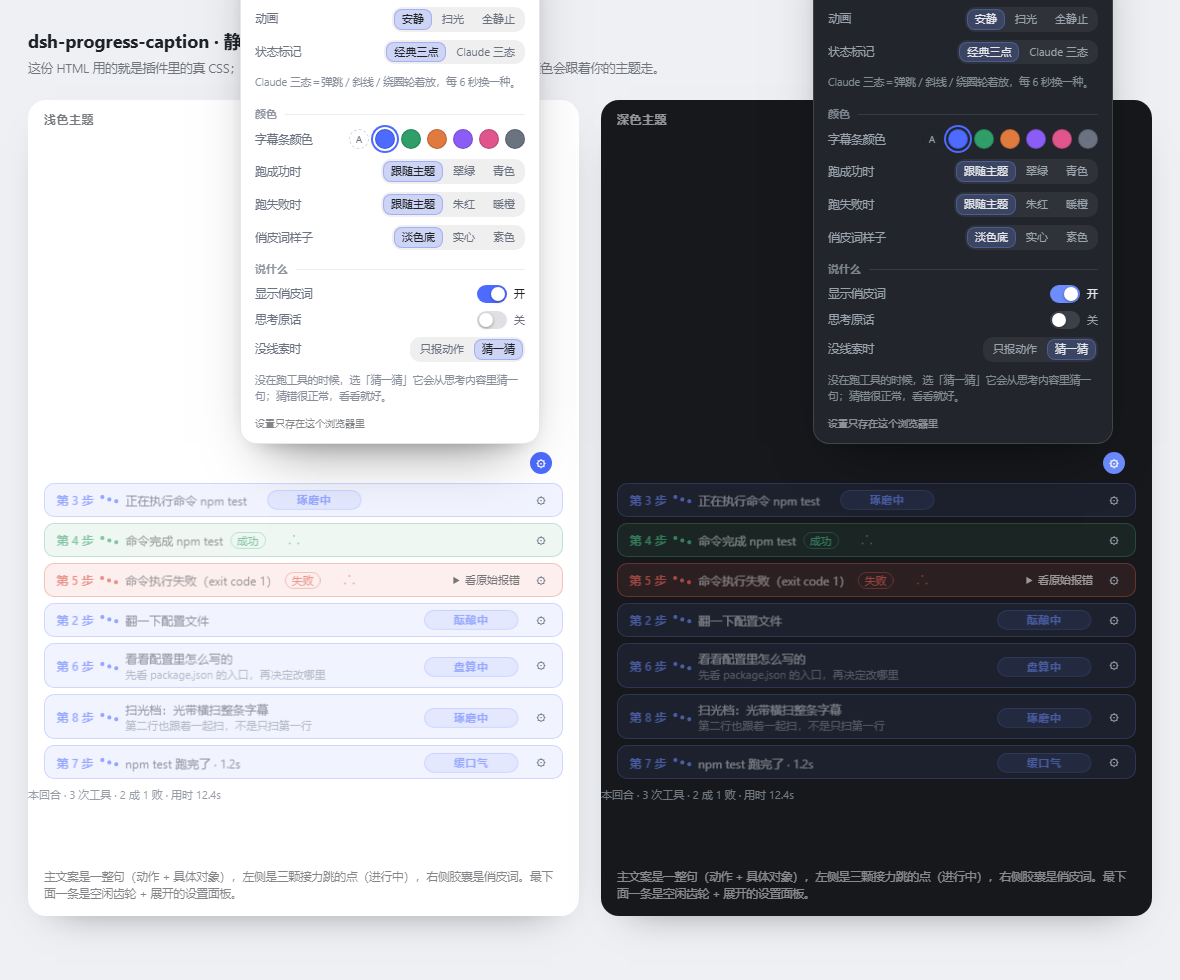
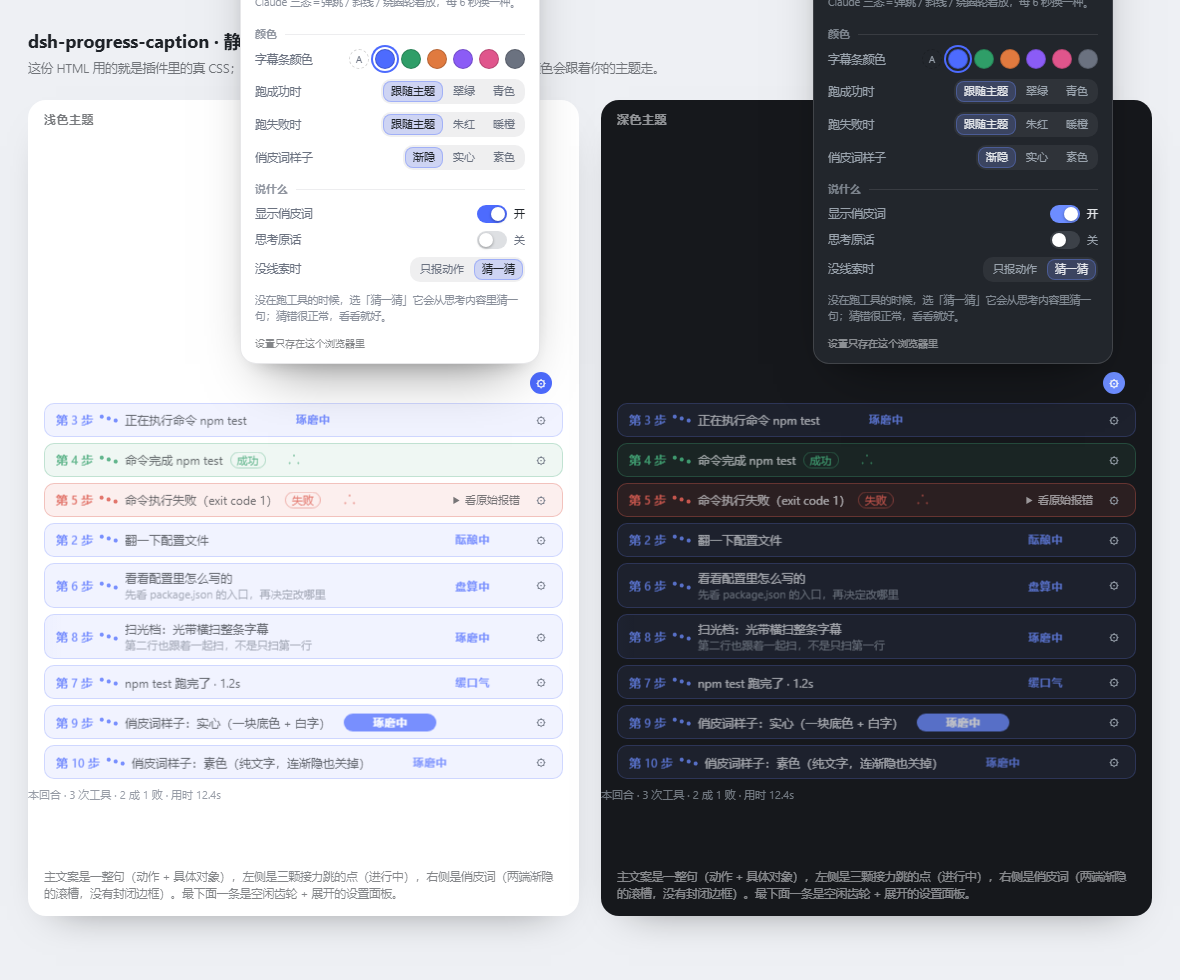
fix: 字幕条不再跳高、俏皮词去掉封闭圆角框；打包截图与回归
两处观感问题：

1) 「思考原话」副行出现/消失时整条框突兀跳高又突然缩回。
   - 根因两头：一是副行只挂在 thinking 分支上，工具一跑（state 翻 running）
     就被摘掉、跑完又挂回来，一轮能来回好几次；二是直接挂/摘 .pgc-sub 让
     内容高度一帧内多 13px / 少 13px，而 .pgc-band 那条 max-height 过渡恒为
     7em，从来没生效过。
   - 修法：deriveCaption 顶部统一算一次 blocks/sub，running / writing /
     thinking 三个「整轮还没结束」的分支都带同一句；组件里按 turn 记账的
     subRef 让整轮进行中原话常驻。
   - 渲染包一层常驻的 .pgc-sub-wrap 当「高度闸门」：max-height 0 → 1.6em
     配 .18s 过渡，透明度 .14s 一起淡入淡出，不再一帧跳变。

2) 俏皮词右侧那颗封闭圆角小胶囊看着像按钮。
   - 默认档（tint）去掉底色、描边、999px 圆角，改为两端各 14% 渐变到透明的
     mask 滚槽，词从雾里滚进滚出；成功/失败只换字色，不再补一圈颜色。
   - 实心档保留一块实底 + 白字并关掉 mask（否则胶囊两头被啃透明）；素色档
     纯文字，连渐隐也关掉。三档一眼分得开，老存档仍有效。
   - 设置面板文案 淡色底 → 渐隐（en: Tinted → Faded）。

没动的：换词履带 .pgc-flavor-track、@keyframes pgc-flavor-roll、.42s 动画、
2.8s 词频周期、.pgc-band 的裁剪与 padding/margin 全部原样。

验证：render 78/78、package 9/9；变异检查三条（删副行 max-height 过渡、
把 border 加回 .pgc-flavor、running 分支不带 sub）各自只让对应那条断言变红，
改回后字节还原、全绿；headless Edge 实测副行开合是连续插值（收起 28.80 →
29.44 → 31.16 → 36.42 → 45.36px），tint 档 border 0px / bg 透明 / radius 0px。

diff --git a/client.js b/client.js
@@ -357,7 +357,7 @@ window.__ModuleLoader__.load({
         colorBad: '跑失败时',
         colorFlavor: '俏皮词样子',
         toneTheme: '跟随主题',
-        toneTint: '淡色底',
+        toneTint: '渐隐',
         toneSolid: '实心',
         tonePlain: '素色',
         swOcean: '海蓝',
@@ -493,7 +493,7 @@ window.__ModuleLoader__.load({
         colorBad: 'When it fails',
         colorFlavor: 'Fun word look',
         toneTheme: 'Theme',
-        toneTint: 'Tinted',
+        toneTint: 'Faded',
         toneSolid: 'Solid',
         tonePlain: 'Plain',
         swOcean: 'Ocean',
@@ -1193,6 +1193,12 @@ window.__ModuleLoader__.load({
       // 宿主发出来的 step 本来就是 1 起（用真实会话日志核过：第一个 step 就是 1），
       // 这里绝对不能再 +1，否则「第 1 步」会被显示成「第 2 步」。
       const step = partial && typeof partial.step === 'number' ? partial.step : null;
+      const blocks = partial && Array.isArray(partial.blocks) ? partial.blocks : EMPTY;
+      // 副行是「整轮都在」的东西，不是只有 thinking 那一瞬间才有。
+      // 以前只有 thinking 分支带 sub：工具一起来（state 变 running）这行就被摘掉，
+      // 工具跑完回到 thinking 又挂回来——一轮里能来回好几次，整条框跟着一跳一跳。
+      // 现在每个「这一轮还没结束」的分支都带上同一句思考原话，状态怎么翻都不动它。
+      const sub = pickThought(lastReasoningText(blocks));
 
       // 1) 有工具在跑。
       if (calls.length > 0) {
@@ -1209,13 +1215,14 @@ window.__ModuleLoader__.load({
           target: toolTarget(call),
           ruleId: null,
           phase: null,
+          // 工具在跑，但这一轮还没结束：副行照旧挂着，不因为 state 从 thinking 翻成 running 就消失。
+          sub,
           kind: null,
           code: null,
           rawLine: '',
         };
       }
 
-      const blocks = partial && Array.isArray(partial.blocks) ? partial.blocks : EMPTY;
       const tail = blocks.length > 0 ? blocks[blocks.length - 1] : null;
       const tailKind = tail ? tail.kind : null;
 
@@ -1231,6 +1238,7 @@ window.__ModuleLoader__.load({
           target: '',
           ruleId: null,
           phase: null,
+          sub,
           kind: null,
           code: null,
           rawLine: '',
@@ -1293,7 +1301,7 @@ window.__ModuleLoader__.load({
         target: '',
         ruleId: rule ? rule.id : null,
         // 副行：从这段思考里挑一句最有信息量的（不是第一句——第一句几乎都是过场话）。
-        sub: pickThought(lastReasoningText(blocks)),
+        sub,
         phase: !rule && phase ? phase.text : null,
         kind: null,
         code: null,
@@ -1546,6 +1554,21 @@ window.__ModuleLoader__.load({
       if (shown) paintedRef.current = shown;
       const painted = showFull ? shown : paintedRef.current;
 
+      // 副行（「思考原话」）整轮常驻：以前它只跟着 thinking 这一种 state 走，
+      // 工具一跑（state 翻成 running）就被摘掉，工具跑完回到 thinking 又挂回来——
+      // 一轮里能来回好几次，每次整条框都跟着长高 / 缩回 13px。
+      // 现在记住这一轮最后一句非空的思考原话，中间状态怎么翻都继续显示；
+      // 只有换到新的一轮才清空（收成齿轮时由 showFull 一并收掉）。
+      const subRef = React.useRef({ turn: null, text: '' });
+      const paintedTurn = painted && typeof painted.turn === 'number' ? painted.turn : null;
+      if (paintedTurn !== null && subRef.current.turn !== paintedTurn) {
+        subRef.current = { turn: paintedTurn, text: '' };
+      }
+      if (painted && painted.sub) subRef.current.text = painted.sub;
+      const subText = showFull && settings.subLine
+        ? (painted && painted.sub ? painted.sub : subRef.current.text)
+        : '';
+
       // Claude 三态：每 SHAPE_MS 换一种（弹跳 → 斜线 → 绕圈 → 回到弹跳）。
       // 只在「选了 Claude 三态 + 动画没关 + 确实有内容」时才计时：
       // 收成齿轮或选了全静止档就没有人在看，让计时器空转只是白耗电。
@@ -1757,10 +1780,13 @@ window.__ModuleLoader__.load({
               // 稳定过（最快 520ms / 快思考 800ms 才换一次），比 160ms 的动画长，不会连成闪烁。
               h('span', { className: 'pgc-text' },
                 h('span', { className: 'pgc-label', key: label }, label),
-                // 「思考原话」开关打开后，才多给一行模型自己的思考首句当副行。
-                settings.subLine && painted.state === 'thinking' && painted.sub
-                  ? h('span', { className: 'pgc-sub' }, painted.sub)
-                  : null),
+                // 「思考原话」那一行。外面这层 .pgc-sub-wrap 是「高度闸门」：
+                // 副行有没有内容都常驻，靠 max-height 0 → 1.6em 过渡来开关。
+                // 以前是直接挂/摘 .pgc-sub，盒子高度会在一帧里多出 13px，
+                // 整条框就突兀地跳高、又突然缩回（.pgc-band 那条 max-height 过渡一次也没生效过，
+                // 因为它的 max-height 恒为 7em，真正变的是里面的内容高度）。
+                h('span', { className: 'pgc-sub-wrap' + (subText ? ' pgc-sub-wrap--on' : '') },
+                  h('span', { className: 'pgc-sub' }, subText))),
               // 俏皮词在场时，不再重复挂「进行中」——两个都在就互相挤，主文案被压成两三个字。
               // 进行中由左侧小圆点表达；「成功 / 失败」是结论，任何时候都留着。
               status && (!suffix || painted.state === 'ok' || painted.state === 'error')
@@ -2054,7 +2080,15 @@ window.__ModuleLoader__.load({
    不再按「行数 2/3」加 line-clamp——主文案是拼出来的整句（十几个字），
    开 2/3 行几乎不会真的折行，视觉上没差别，所以那个设置项已经删了。 */
 .pgc-text { display: flex; flex-direction: column; justify-content: center; flex: 1 1 auto; min-width: 0; }
-.pgc-sub { flex: 0 0 auto; min-width: 0; overflow: hidden; text-overflow: ellipsis; white-space: nowrap; font-size: .92em; line-height: 1.5; color: var(--dsw-alias-label-secondary, inherit); opacity: .78; }
+/* 副行的「高度闸门」。这层壳常驻在树上，展开/收起只改 max-height 与 opacity，
+   所以副行出现、消失都不会在一帧里把盒子的内容高度顶高 / 抽走（那正是「整条框突然
+   跳高又突然缩回」的来源）。壳自己不占位：收起时 max-height: 0 + overflow: hidden。 */
+.pgc-sub-wrap { flex: 0 0 auto; min-width: 0; max-height: 0; opacity: 0; overflow: hidden;
+  transition: max-height .18s cubic-bezier(.23, 1, .32, 1), opacity .14s ease; }
+.pgc-sub-wrap--on { max-height: 1.6em; opacity: .78; }
+/* 副行本体：display: block 是必须的 —— 它现在被包在 .pgc-sub-wrap 里，不再是
+   .pgc-text 的直接 flex 子项，若还是 inline 就吃不到 overflow/text-overflow 的省略号。 */
+.pgc-sub { display: block; flex: 0 0 auto; min-width: 0; overflow: hidden; text-overflow: ellipsis; white-space: nowrap; font-size: .92em; line-height: 1.5; color: var(--dsw-alias-label-secondary, inherit); }
 .pgc-label { position: relative; flex: 0 0 auto; min-width: 0; overflow: hidden; display: -webkit-box; -webkit-box-orient: vertical; -webkit-line-clamp: 1; overflow-wrap: anywhere; }
 /* 文案换了才重播的淡入上浮：只动 opacity + translateY（合成层），不改宽高、不重排。
    160ms 是「看得见但来不及拖沓」的量级；换文案的间隔由 holdMs 兜住，不会连成闪烁。
@@ -2114,8 +2148,15 @@ window.__ModuleLoader__.load({
 /* 俏皮词：不用斜体（中文被强行倾斜很难看），固定占最右一格。
    宽度写死 6.6em：词最短 3 字最长 5 字，写死之后换词时右边这块纹丝不动，
    左边的状态文字就不会被一会儿推左一会儿推右（这也是「闪」的一个来源）。
-   换词时外壳（底色 / 圆角 / 宽度）一律不动，只有里面两行字在滚：
-   这个框就是那条「滚槽」，overflow: hidden 把滚出去的那半句裁掉。 */
+   换词时外壳（宽度 / 高度 / 位置）一律不动，只有里面两行字在滚：
+   这个框就是那条「滚槽」，overflow: hidden 把滚出去的那半句裁掉。
+
+   默认这一档不再画「一圈」：没有底色、没有描边、没有圆角矩形。
+   一圈封闭的框把词关在里面，怎么看都像个按钮，而且小字 + 细描边在深色主题下
+   容易糊成一条灰边。改成两端渐隐的滚槽之后，词是从左右两团雾里滚进滚出的，
+   边界不再是一条硬线，「滚」这件事才读得出来。
+   渐隐只能用 mask：想拿 ::before/::after 盖一层背景色做假渐隐，在无底色的
+   滚槽上会把背后的整条胶囊一起盖住，所以这里必须是真·透明遮罩。 */
 .pgc-flavor {
   flex: 0 0 auto; width: 6.6em; max-width: 46%; margin-left: 6px;
   position: relative; display: inline-flex; align-items: center; justify-content: center;
@@ -2123,10 +2164,11 @@ window.__ModuleLoader__.load({
   overflow: hidden; text-overflow: ellipsis; white-space: nowrap; text-align: center;
   font-style: normal; font-weight: 600; font-size: .95em; line-height: 1.6; letter-spacing: .2px;
   color: var(--pgc-accent);
-  background: color-mix(in srgb, var(--pgc-accent) 15%, transparent);
-  border: 1px solid color-mix(in srgb, var(--pgc-accent) 30%, transparent);
-  border-radius: 999px; padding: 0 9px;
-  transition: color .18s ease, background-color .18s ease, border-color .18s ease;
+  padding: 0 9px;
+  /* 两端渐隐：左右各 14% 渐变到全透明，词从雾里滚进、再滚回雾里。 */
+  -webkit-mask-image: linear-gradient(90deg, transparent 0, #000 14%, #000 86%, transparent 100%);
+  mask-image: linear-gradient(90deg, transparent 0, #000 14%, #000 86%, transparent 100%);
+  transition: color .18s ease, background-color .18s ease;
 }
 /* 滚槽里的滚动体：上一句在上、新的一句在下，两行竖直叠着，整体往上滚半格。
    滚动体的高度是滚槽的两倍，所以「滚半格」正好等于「滚一行」——
@@ -2146,25 +2188,28 @@ window.__ModuleLoader__.load({
 }
 /* 刚出现（还没有「上一句」）时不要滚：条本身已经在播入场动画，再滚一次就显得吵。 */
 .pgc-flavor-still { animation: none; }
-/* 俏皮词三种样式：淡色底（默认）/ 实心 / 素色（不要底色，只留字）。 */
-/* 换词动画挂在滚动体上（.pgc-flavor-track 自带 animation），外壳不再挂，
+/* 俏皮词三种样式，三档必须一眼分得开：
+   - tint（默认，无后缀同名规则）：两端渐隐的滚槽，没有底色也没有描边；
+   - solid：想要「一块底」的选它，实心胶囊 + 白字，渐变遮罩必须关掉，
+     否则胶囊两头会被啃成透明，就不是胶囊了；
+   - plain：纯文字，连渐隐也关掉，词走到边上直接顶格。
+   换词动画挂在滚动体上（.pgc-flavor-track 自带 animation），外壳不再挂，
    所以原来「每个词都连胶囊一起重挂载」的闪烁没有了。全静止档由后面的规则统一关掉。 */
-.pgc-flavor-solid .pgc-flavor { color: #fff; background: var(--pgc-accent); border-color: transparent; }
-.pgc-flavor-plain .pgc-flavor { color: var(--pgc-accent); background: transparent; border-color: transparent; opacity: .92; }
-.pgc-strip--ok .pgc-flavor {
-  color: var(--pgc-ok);
-  background: color-mix(in srgb, var(--pgc-ok) 15%, transparent);
-  border-color: color-mix(in srgb, var(--pgc-ok) 30%, transparent);
+.pgc-flavor-solid .pgc-flavor {
+  color: #fff; background: var(--pgc-accent);
+  border-radius: 999px;
+  -webkit-mask-image: none; mask-image: none;
 }
-.pgc-strip--error .pgc-flavor {
-  color: var(--pgc-bad);
-  background: color-mix(in srgb, var(--pgc-bad) 15%, transparent);
-  border-color: color-mix(in srgb, var(--pgc-bad) 30%, transparent);
+.pgc-flavor-plain .pgc-flavor {
+  color: var(--pgc-accent); background: transparent; opacity: .92;
+  -webkit-mask-image: none; mask-image: none;
 }
-.pgc-flavor-solid.pgc-strip--ok .pgc-flavor { color: #fff; background: var(--pgc-ok); border-color: transparent; }
-.pgc-flavor-solid.pgc-strip--error .pgc-flavor { color: #fff; background: var(--pgc-bad); border-color: transparent; }
-.pgc-flavor-plain.pgc-strip--ok .pgc-flavor { background: transparent; border-color: transparent; }
-.pgc-flavor-plain.pgc-strip--error .pgc-flavor { background: transparent; border-color: transparent; }
+/* 成功 / 失败：默认档只换字色，不铺底色、不描边——框都没了，再补一圈颜色就白改了。 */
+.pgc-strip--ok .pgc-flavor { color: var(--pgc-ok); }
+.pgc-strip--error .pgc-flavor { color: var(--pgc-bad); }
+/* 实心档在成功 / 失败时连胶囊底色一起换，白字保持不变。 */
+.pgc-flavor-solid.pgc-strip--ok .pgc-flavor { color: #fff; background: var(--pgc-ok); }
+.pgc-flavor-solid.pgc-strip--error .pgc-flavor { color: #fff; background: var(--pgc-bad); }
 .pgc-chip { flex: 0 0 auto; padding: 0 6px; border: 1px solid color-mix(in srgb, var(--pgc-accent) 38%, transparent); border-radius: 999px; font-size: 11px; color: var(--pgc-accent); }
 .pgc-strip--ok .pgc-chip { color: var(--pgc-ok); border-color: color-mix(in srgb, var(--pgc-ok) 48%, transparent); }
 .pgc-strip--error .pgc-chip { color: var(--pgc-bad); border-color: color-mix(in srgb, var(--pgc-bad) 52%, transparent); }
@@ -2327,6 +2372,10 @@ window.__ModuleLoader__.load({
   /* 系统开了「减少动态效果」时，也不再做位移和缩放，只留颜色的硬切换。 */
   .pgc-band { max-height: 7em; opacity: 1; }
   .pgc-strip--handle .pgc-band { max-height: 0; opacity: 0; margin-block: 0; padding-block: 0; }
+  /* 副行的开合直接到位：上面已经把 transition 全关了，这里把两端状态写死，
+     免得将来有人只改动默认值、忘了降级分支。 */
+  .pgc-sub-wrap { max-height: 0; opacity: 0; }
+  .pgc-sub-wrap--on { max-height: 1.6em; opacity: .78; }
   /* 不转的时候，点靠 keyframes 才亮起来，这里要补回可见度，否则整个标记会消失。 */
   .pgc-arc > span { opacity: .6 !important; }
   /* 同理：三点停住后要回到「看得见」的静止形（靠 keyframes 才有位移，一撤就全落回原位）。 */

diff --git a/README.md b/README.md
@@ -225,13 +225,21 @@ v4.1-flash 这类模型思考极快，字是一串串来的。如果字幕逐字
   一次出现只播一次；根节点故意不挂 `animation`——那会被任何一次重渲染重播，就是你看到的「闪」。
 - **换文案**用 `pgc-swap`（`.16s`）：起点是 `opacity: .45` 而不是 `0`。
   从 0 开始的话，每隔几百毫秒就有一次「字消失再浮现」，观感就是断；从 .45 起跳才是「换了一句话」。
-- **换俏皮词**不走 `pgc-swap`，走履带（`pgc-flavor-roll`，`.42s`）。胶囊是固定高度的裁切框，
+- **换俏皮词**不走 `pgc-swap`，走履带（`pgc-flavor-roll`，`.42s`）。滚槽是固定高度的裁切框，
   里面塞一条「两行高」的滚动体：上面一行是上一句、下面一行是新的一句，整体往上滚半格就换好了。
   关键是**两行只有一个滚动体、只有一条动画**——如果给两行各挂一条动画，两行各走各的，中途会同时
   停在框里叠成一坨（18px 高的框放不下两行字）；整条一起滚，两行之间的距离永远正好一格，
   任何一帧都不会叠。缓动 `cubic-bezier(.25,.46,.45,.94)`：起步就走、后段慢慢落位，
   不是匀速平移（匀速看着像机器在报站）。滚动体默认停在「下面那行」，所以动画被关掉时
   直接切到新词，不会停在上一句上；刚出现（还没有「上一句」）那一帧不滚，只淡入。
+- **默认档的俏皮词不画「一圈」**。早期是淡底 + 1px 描边 + `border-radius: 999px` 的小胶囊，
+  实际看着像个按钮：词被一圈硬边锁死，深色主题下细描边还容易糊成灰边。现在默认（`tint`）
+  没有底色、没有描边、没有圆角矩形，只在滚槽上挂一条
+  `mask-image: linear-gradient(90deg, transparent 0, #000 14%, #000 86%, transparent 100%)`，
+  词是从左右两团雾里滚进滚出的，边界不再是一条硬线，「在滚」这件事才读得出来。
+  渐隐只能用真 `mask`：想拿 `::before/::after` 盖一层背景色做假渐隐，在无底色的滚槽上会把
+  背后整条胶囊一起盖住。另两档仍保留`实心`（一块底色 + 白字，把 mask 关掉，否则胶囊两头会被啃掉）
+  和`素色`（纯文字，连渐隐也关掉）。
 - **一条字幕里只允许一个东西在动。** 俏皮词在场时，右边那圈绕圈的点（`.pgc-slot` / `.pgc-arc`）
   会收起来并停转（`.pgc-strip--hasflavor`）；只有当俏皮词不在（关掉「显示俏皮词」）时它才回来转。
   理由是实测过：两个相邻的小东西相隔不到 40px、同一个强调色、还是两种节奏
@@ -290,7 +298,7 @@ v4.1-flash 这类模型思考极快，字是一串串来的。如果字幕逐字
 | 字幕条颜色 | 跟随主题 / 海蓝 / 森林 / 日落 / 紫罗兰 / 玫红 / 石墨 |
 | 跑成功时 | 跟随主题 / 翠绿 / 青色 |
 | 跑失败时 | 跟随主题 / 朱红 / 暖橙 |
-| 俏皮词样子 | 淡色底 / 实心 / 素色 |
+| 俏皮词样子 | 渐隐（默认，两端淡出的滚槽）/ 实心（一块底色）/ 素色（纯文字） |
 | 显示俏皮词 | 开 / 关 |
 | 思考原话 | 开 / 关（开：主文案下面多一行从模型思考里挑出的一句，不是照抄第一句） |
 | 没线索时 | 猜一猜（默认，从思考里猜一句）/ 只报动作（只报工具动作） |
